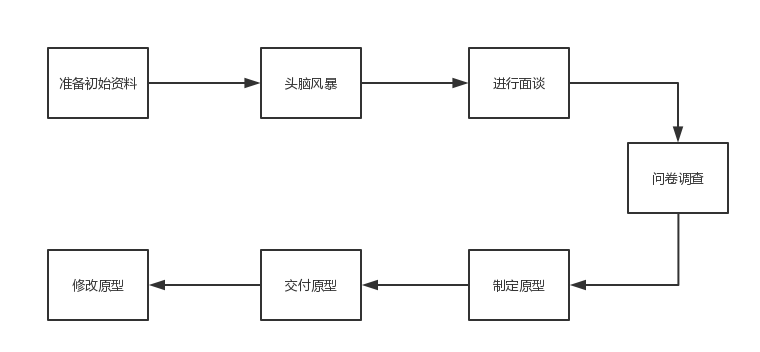
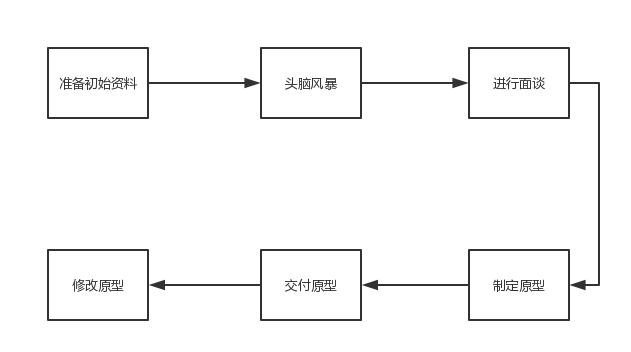
格式

diff --git a/展开需求获取并完成用例文档/用例文档.md b/展开需求获取并完成用例文档/用例文档.md
@@ -76,20 +76,94 @@
 
 ### 用例1 学生登陆
 
-|                    |      |      |
-| ------------------ | ---- | ---- |
-| **ID**             |      |      |
-| **名称**           |      |      |
-| **创建者**         |      |      |
-| **最后一次更新者** |      |      |
-| **创建日期**       |      |      |
-| **最后更新日期**   |      |      |
-| **参与者**         |      |      |
-| **触发条件**       |      |      |
-| **前置条件**       |      |      |
-| **后置条件**       |      |      |
-| **优先级**         |      |      |
-| **正常流程**       |      |      |
-| **拓展流程**       |      |      |
-| **特殊需求**       |      |      |
+| 标题               | 内容                            |      |
+| ------------------ | ------------------------------- | ---- |
+| **ID**             | UC 1                            |      |
+| **名称**           | 学生登陆                        |      |
+| **创建者**         | 钟镇鸿                          |      |
+| **最后一次更新者** | 钟镇鸿                          |      |
+| **创建日期**       | 2018.10.20                      |      |
+| **最后更新日期**   |                                 |      |
+| **参与者**         | 学生，目标是登陆系统            |      |
+| **触发条件**       | 无                              |      |
+| **前置条件**       | 无                              |      |
+| **后置条件**       | 无                              |      |
+| **优先级**         | 1                               |      |
+| **正常流程**       | 1. 学生向系统发起登陆请求       |      |
+|                    | 2. 输入帐号密码                 |      |
+|                    | 3. 成功登陆                     |      |
+| **拓展流程**       | 1a. 学生无帐号：                |      |
+|                    | 1. 系统提示无帐号               |      |
+|                    | 2. 学生用学生邮箱进行验证和注册 |      |
+| **特殊需求**       | 无                              |      |
 
+
+
+### 用例2 查看站内帖子 
+
+| 标题               | 内容                         |      |
+| ------------------ | ---------------------------- | ---- |
+| **ID**             | UC 2                         |      |
+| **名称**           | 查看站内帖子                 |      |
+| **创建者**         | 钟镇鸿                       |      |
+| **最后一次更新者** | 钟镇鸿                       |      |
+| **创建日期**       | 2018.10.20                   |      |
+| **最后更新日期**   |                              |      |
+| **参与者**         | 学生，目标是查看站内帖子     |      |
+| **触发条件**       | 学生进入网站主页             |      |
+| **前置条件**       | 学生已经联网并且进行身份验证 |      |
+| **后置条件**       | 无                           |      |
+| **优先级**         | 3                            |      |
+| **正常流程**       |                              |      |
+|                    |                              |      |
+|                    |                              |      |
+| **拓展流程**       |                              |      |
+|                    |                              |      |
+|                    |                              |      |
+| **特殊需求**       | 无                           |      |
+
+### 用例3 关注管理
+
+| 标题               | 内容                                           |      |
+| ------------------ | ---------------------------------------------- | ---- |
+| **ID**             | UC 3                                           |      |
+| **名称**           | 关注管理                                       |      |
+| **创建者**         | 钟镇鸿                                         |      |
+| **最后一次更新者** | 钟镇鸿                                         |      |
+| **创建日期**       | 2018.10.20                                     |      |
+| **最后更新日期**   |                                                |      |
+| **参与者**         | 学生，目标是进行关注帖子或用户，并管理关注内容 |      |
+| **触发条件**       | 学生想关注帖子或用户                           |      |
+| **前置条件**       | 学生已经联网并且进行身份验证                   |      |
+| **后置条件**       | 无                                             |      |
+| **优先级**         | 2                                              |      |
+| **正常流程**       |                                                |      |
+|                    |                                                |      |
+|                    |                                                |      |
+| **拓展流程**       |                                                |      |
+|                    |                                                |      |
+|                    |                                                |      |
+| **特殊需求**       | 无                                             |      |
+
+### 用例4 加入群组
+
+| 标题               | 内容                         |      |
+| ------------------ | ---------------------------- | ---- |
+| **ID**             | UC 4                         |      |
+| **名称**           | 加入群组                     |      |
+| **创建者**         | 钟镇鸿                       |      |
+| **最后一次更新者** | 钟镇鸿                       |      |
+| **创建日期**       | 2018.10.20                   |      |
+| **最后更新日期**   |                              |      |
+| **参与者**         | 学生，目标是加入群组         |      |
+| **触发条件**       | 学生想要加入群组             |      |
+| **前置条件**       | 学生想要联网并且进行身份验证 |      |
+| **后置条件**       | 无                           |      |
+| **优先级**         | 2                            |      |
+| **正常流程**       |                              |      |
+|                    |                              |      |
+|                    |                              |      |
+| **拓展流程**       |                              |      |
+|                    |                              |      |
+|                    |                              |      |
+| **特殊需求**       | 无                           |      |

diff --git a/展开需求获取并完成用例文档/需求获取安排计划书.md b/展开需求获取并完成用例文档/需求获取安排计划书.md
@@ -48,19 +48,13 @@
 
 参见[面谈结果](需求获取手段/面谈结果.md)
 
-###2.2 问卷调查
-
-给用户一个功能清单，来选择他们需要的功能，以及我们可能遗漏的问题。
-
-参见[问卷调查结果](需求获取手段/问卷调查结果.md)
-
-### 2.3 头脑风暴
+### 2.2 头脑风暴
 
 分析人员构想软件应有的功能。
 
 参见[头脑风暴活动记录](需求获取手段/头脑风暴活动记录.md)
 
-### 2.4 交互式原型
+### 2.3 交互式原型
 
  计划制作具有交互式功能的原型，获得用户反馈，以提高用户的参与意识，促进双方对项目的一致认识。
 
@@ -68,13 +62,13 @@
 
 
 
-### 2.5 在需求获取的过程中要注意的地方：
+### 2.4 在需求获取的过程中要注意的地方：
 
 - 要接受需求的不稳定性，用户的观点可能随时发生变化，这些变化应该被理性讨论的，而不应被武断拒绝。
 - 务必让涉众都表达观点，以防遗漏需求。
 - 对模糊和抽象的需求，要进行细化，让真正的需求显露出来。
 
-### ２.6 需求获取流程
+### ２.5 需求获取流程
 
 ![](/home/songzi/文档/my_github/DemandDocument/展开需求获取并完成用例文档/需求获取计划流程.png)
 
